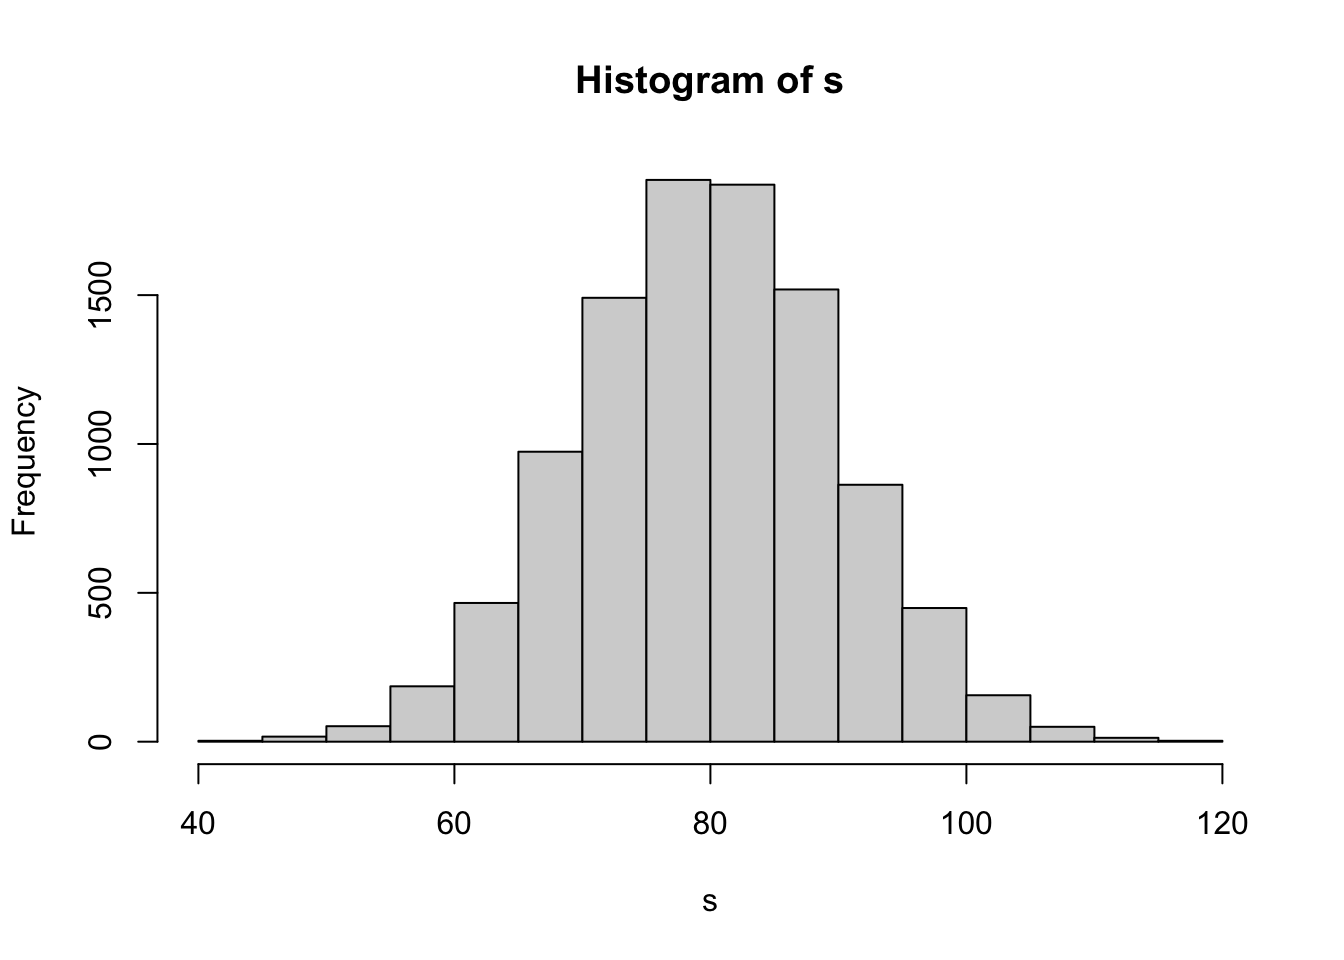
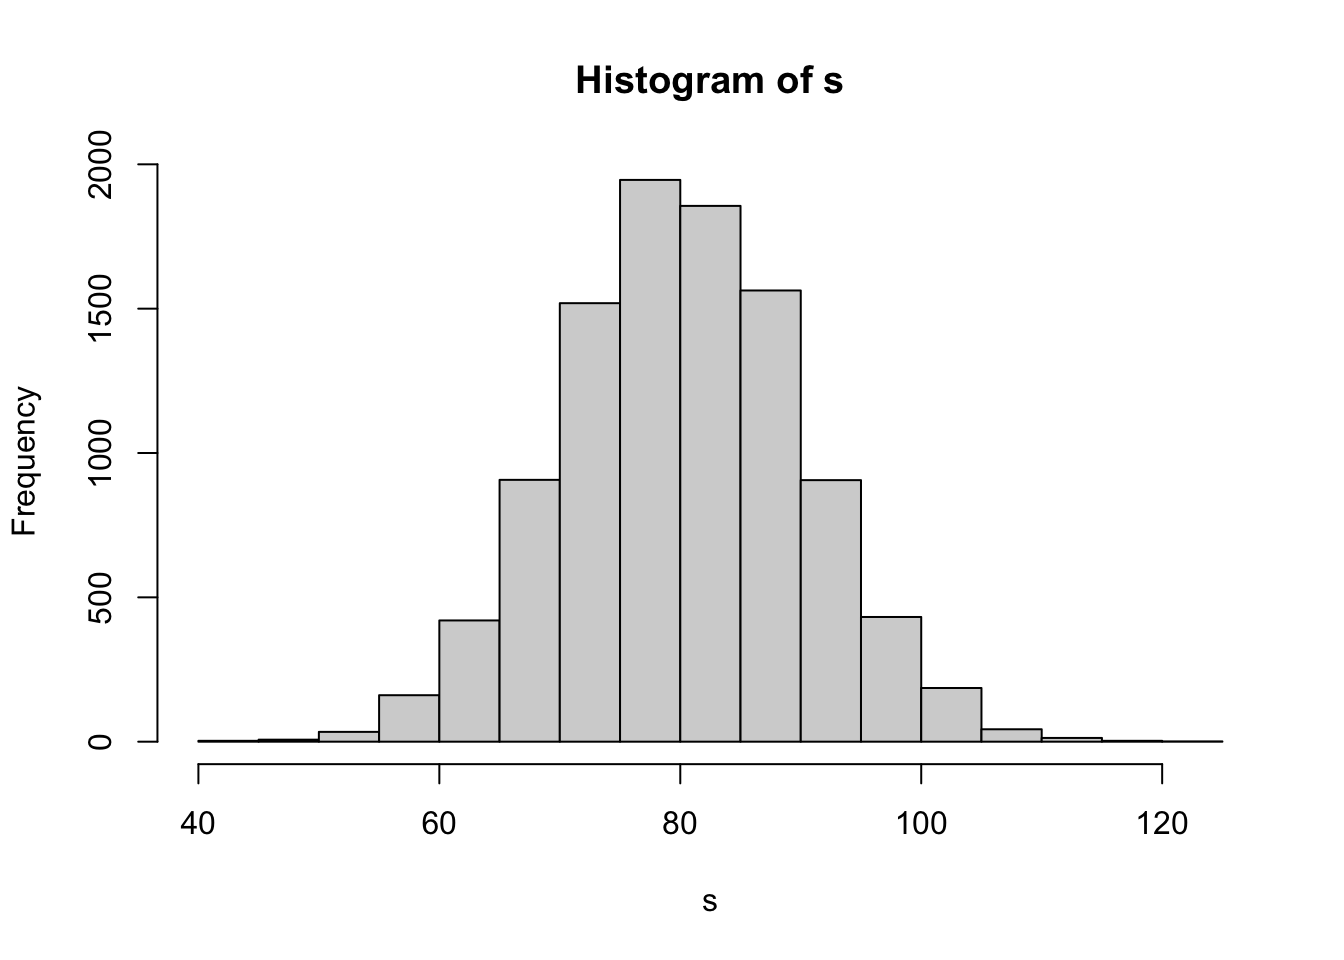
commit

diff --git a/docs/04-module.html b/docs/04-module.html
@@ -346,8 +346,8 @@ pre > code.sourceCode > span > a:first-child::before { text-decoration: underlin
     <h2 id="toc-title">Table of Contents</h2>
    
   <ul>
-  <li><a href="#preliminaries" id="toc-preliminaries" class="nav-link active" data-scroll-target="#preliminaries"><span class="header-section-number">4.1</span> Preliminaries</a></li>
-  <li><a href="#objectives" id="toc-objectives" class="nav-link" data-scroll-target="#objectives"><span class="header-section-number">4.2</span> Objectives</a></li>
+  <li><a href="#objectives" id="toc-objectives" class="nav-link active" data-scroll-target="#objectives"><span class="header-section-number">4.1</span> Objectives</a></li>
+  <li><a href="#preliminaries" id="toc-preliminaries" class="nav-link" data-scroll-target="#preliminaries"><span class="header-section-number">4.2</span> Preliminaries</a></li>
   <li><a href="#r-objects" id="toc-r-objects" class="nav-link" data-scroll-target="#r-objects"><span class="header-section-number">4.3</span> <strong><em>R</em></strong> Objects</a>
   <ul class="collapse">
   <li><a href="#classes-modes-and-types" id="toc-classes-modes-and-types" class="nav-link" data-scroll-target="#classes-modes-and-types">Classes, Modes, and Types</a></li>
@@ -388,17 +388,17 @@ pre > code.sourceCode > span > a:first-child::before { text-decoration: underlin
 </header>
 
 
-<section id="preliminaries" class="level2" data-number="4.1">
-<h2 data-number="4.1" class="anchored" data-anchor-id="preliminaries"><span class="header-section-number">4.1</span> Preliminaries</h2>
-<ul>
-<li>Install this package in <strong><em>R</em></strong>: <a href="https://cran.r-project.org/web/packages/easypackages/renv.pdf">{renv}</a></li>
-</ul>
-</section>
-<section id="objectives" class="level2" data-number="4.2">
-<h2 data-number="4.2" class="anchored" data-anchor-id="objectives"><span class="header-section-number">4.2</span> Objectives</h2>
+<section id="objectives" class="level2" data-number="4.1">
+<h2 data-number="4.1" class="anchored" data-anchor-id="objectives"><span class="header-section-number">4.1</span> Objectives</h2>
 <blockquote class="blockquote">
 <p>The goal of this module is to review important conceptual aspects of the <strong><em>R</em></strong> language as well as practices for updating <strong><em>R</em></strong> components of interest.</p>
 </blockquote>
+</section>
+<section id="preliminaries" class="level2" data-number="4.2">
+<h2 data-number="4.2" class="anchored" data-anchor-id="preliminaries"><span class="header-section-number">4.2</span> Preliminaries</h2>
+<ul>
+<li>Install this package in <strong><em>R</em></strong>: <a href="https://cran.r-project.org/web/packages/easypackages/renv.pdf">{renv}</a></li>
+</ul>
 </section>
 <section id="r-objects" class="level2" data-number="4.3">
 <h2 data-number="4.3" class="anchored" data-anchor-id="r-objects"><span class="header-section-number">4.3</span> <strong><em>R</em></strong> Objects</h2>
@@ -803,7 +803,7 @@ pre > code.sourceCode > span > a:first-child::before { text-decoration: underlin
 </details>
 <div class="cell-output cell-output-stdout">
 <details><summary>Show Output</summary>
-<pre class="details" data-summary="Show Output"><code>## [1] 79.76781</code></pre>
+<pre class="details" data-summary="Show Output"><code>## [1] 80.14025</code></pre>
 </details>
 </div>
 <details class="code-fold">
@@ -812,7 +812,7 @@ pre > code.sourceCode > span > a:first-child::before { text-decoration: underlin
 </details>
 <div class="cell-output cell-output-stdout">
 <details><summary>Show Output</summary>
-<pre class="details" data-summary="Show Output"><code>## [1] 10.14852</code></pre>
+<pre class="details" data-summary="Show Output"><code>## [1] 9.934361</code></pre>
 </details>
 </div>
 </div>
@@ -1443,13 +1443,13 @@ window.document.addEventListener("DOMContentLoaded", function (event) {
 </nav><div class="modal fade" id="quarto-embedded-source-code-modal" tabindex="-1" aria-labelledby="quarto-embedded-source-code-modal-label" aria-hidden="true"><div class="modal-dialog modal-dialog-scrollable"><div class="modal-content"><div class="modal-header"><h5 class="modal-title" id="quarto-embedded-source-code-modal-label">Source Code</h5><button class="btn-close" data-bs-dismiss="modal"></button></div><div class="modal-body"><div class="">
 <div class="sourceCode" id="cb106" data-shortcodes="false"><pre class="sourceCode markdown code-with-copy"><code class="sourceCode markdown"><span id="cb106-1"><a href="#cb106-1" aria-hidden="true" tabindex="-1"></a><span class="fu"># Fundamentals of the ***R*** Language {#module-04}</span></span>
 <span id="cb106-2"><a href="#cb106-2" aria-hidden="true" tabindex="-1"></a></span>
-<span id="cb106-3"><a href="#cb106-3" aria-hidden="true" tabindex="-1"></a><span class="fu">## Preliminaries</span></span>
+<span id="cb106-3"><a href="#cb106-3" aria-hidden="true" tabindex="-1"></a><span class="fu">## Objectives</span></span>
 <span id="cb106-4"><a href="#cb106-4" aria-hidden="true" tabindex="-1"></a></span>
-<span id="cb106-5"><a href="#cb106-5" aria-hidden="true" tabindex="-1"></a><span class="ss">- </span>Install this package in ***R***: <span class="co">[</span><span class="ot">{renv}</span><span class="co">](https://cran.r-project.org/web/packages/easypackages/renv.pdf)</span></span>
+<span id="cb106-5"><a href="#cb106-5" aria-hidden="true" tabindex="-1"></a><span class="at">&gt; The goal of this module is to review important conceptual aspects of the ***R*** language as well as practices for updating ***R*** components of interest.</span></span>
 <span id="cb106-6"><a href="#cb106-6" aria-hidden="true" tabindex="-1"></a></span>
-<span id="cb106-7"><a href="#cb106-7" aria-hidden="true" tabindex="-1"></a><span class="fu">## Objectives</span></span>
+<span id="cb106-7"><a href="#cb106-7" aria-hidden="true" tabindex="-1"></a><span class="fu">## Preliminaries</span></span>
 <span id="cb106-8"><a href="#cb106-8" aria-hidden="true" tabindex="-1"></a></span>
-<span id="cb106-9"><a href="#cb106-9" aria-hidden="true" tabindex="-1"></a><span class="at">&gt; The goal of this module is to review important conceptual aspects of the ***R*** language as well as practices for updating ***R*** components of interest.</span></span>
+<span id="cb106-9"><a href="#cb106-9" aria-hidden="true" tabindex="-1"></a><span class="ss">- </span>Install this package in ***R***: <span class="co">[</span><span class="ot">{renv}</span><span class="co">](https://cran.r-project.org/web/packages/easypackages/renv.pdf)</span></span>
 <span id="cb106-10"><a href="#cb106-10" aria-hidden="true" tabindex="-1"></a></span>
 <span id="cb106-11"><a href="#cb106-11" aria-hidden="true" tabindex="-1"></a><span class="fu">## ***R*** Objects</span></span>
 <span id="cb106-12"><a href="#cb106-12" aria-hidden="true" tabindex="-1"></a></span>
